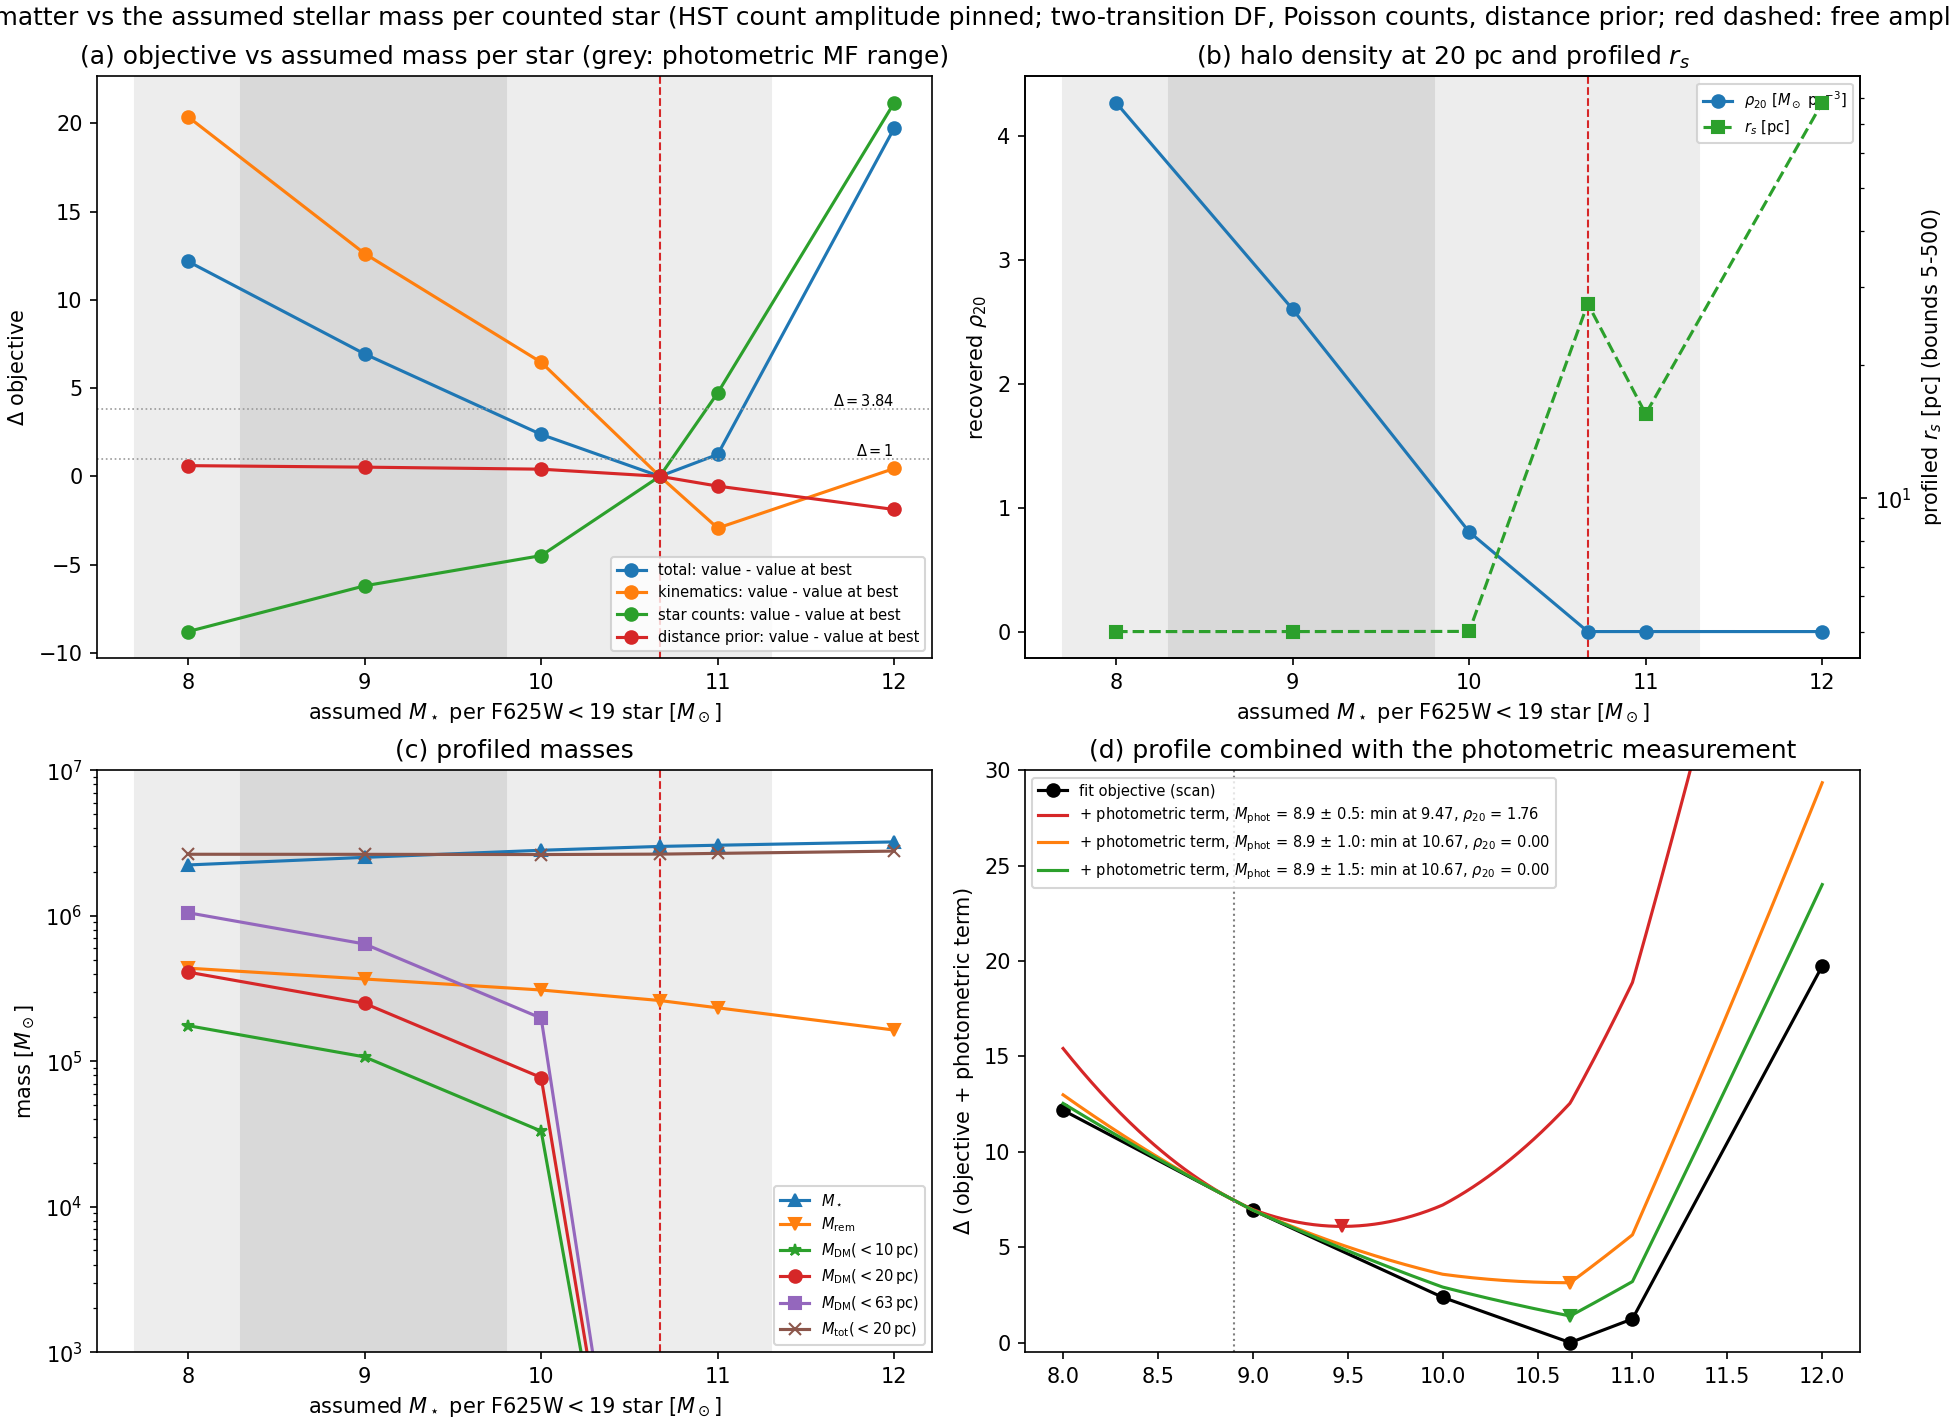
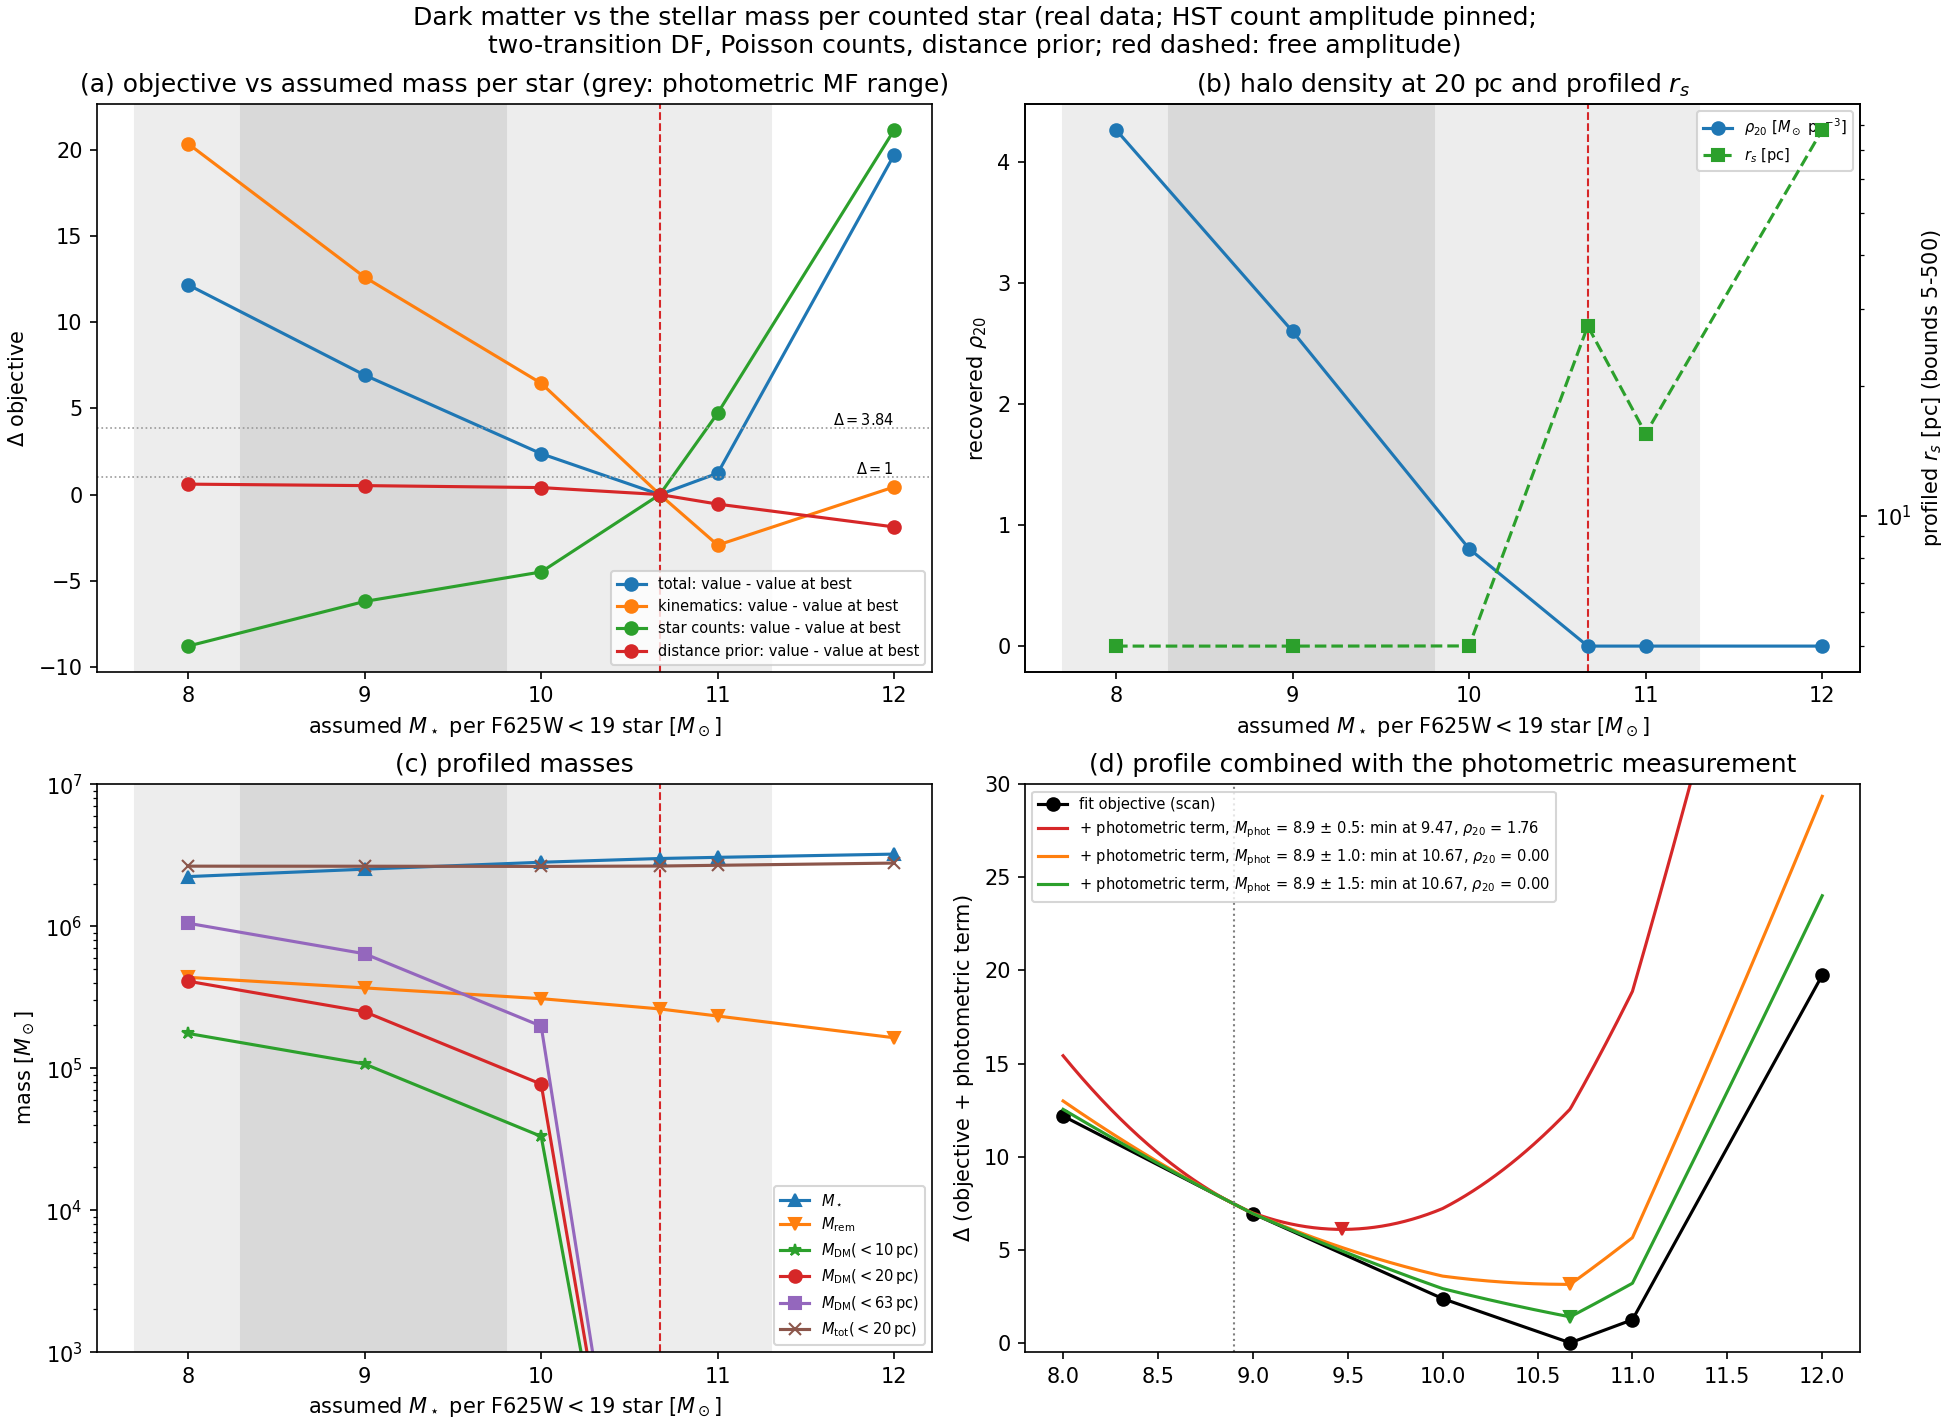
Profile figure: wrap suptitle

diff --git a/bin/plot_mass_per_star_profile.py b/bin/plot_mass_per_star_profile.py
@@ -134,8 +134,8 @@ def main():
     ax.axvline(M_PHOT, color="0.5", ls=":", lw=1)
     ax.set(ylim=(-.5, 30), ylabel=r"$\Delta$ (objective + photometric term)", title="(d) profile combined with the photometric measurement")
     ax.legend(fontsize=7)
-    fig.suptitle("Dark matter vs the assumed stellar mass per counted star (HST count amplitude pinned; two-transition DF, "
-                 "Poisson counts, distance prior; red dashed: free amplitude)")
+    fig.suptitle("Dark matter vs the stellar mass per counted star (real data; HST count amplitude pinned;\n"
+                 "two-transition DF, Poisson counts, distance prior; red dashed: free amplitude)")
     plot = ROOT/"plots"/f"mass_per_star_profile_{args.tag}.png"
     fig.savefig(plot, dpi=150)
     record = dict(created_utc=datetime.now(timezone.utc).isoformat(), points=points, mf_core=MF_CORE, mf_full=MF_FULL,
